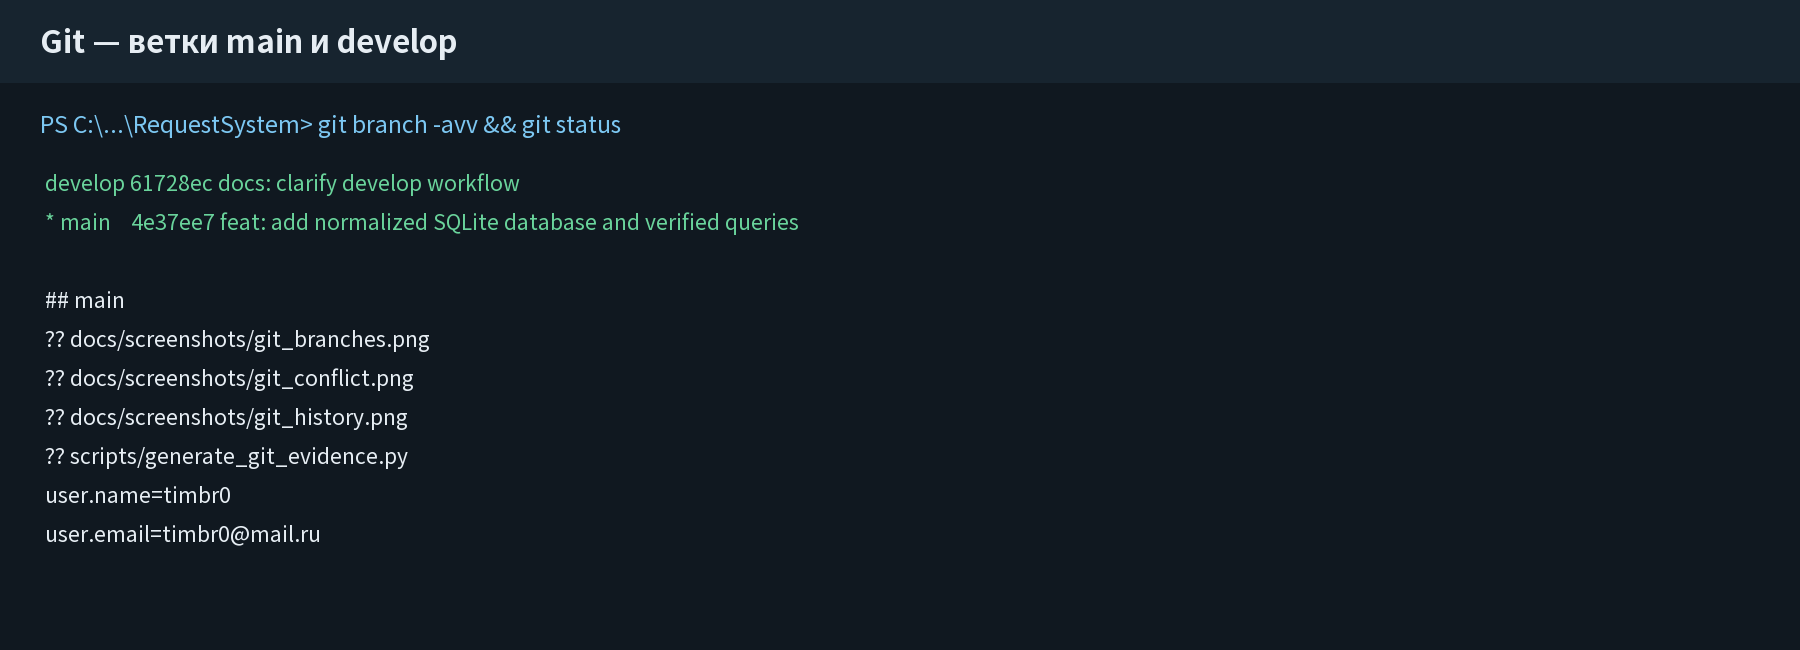
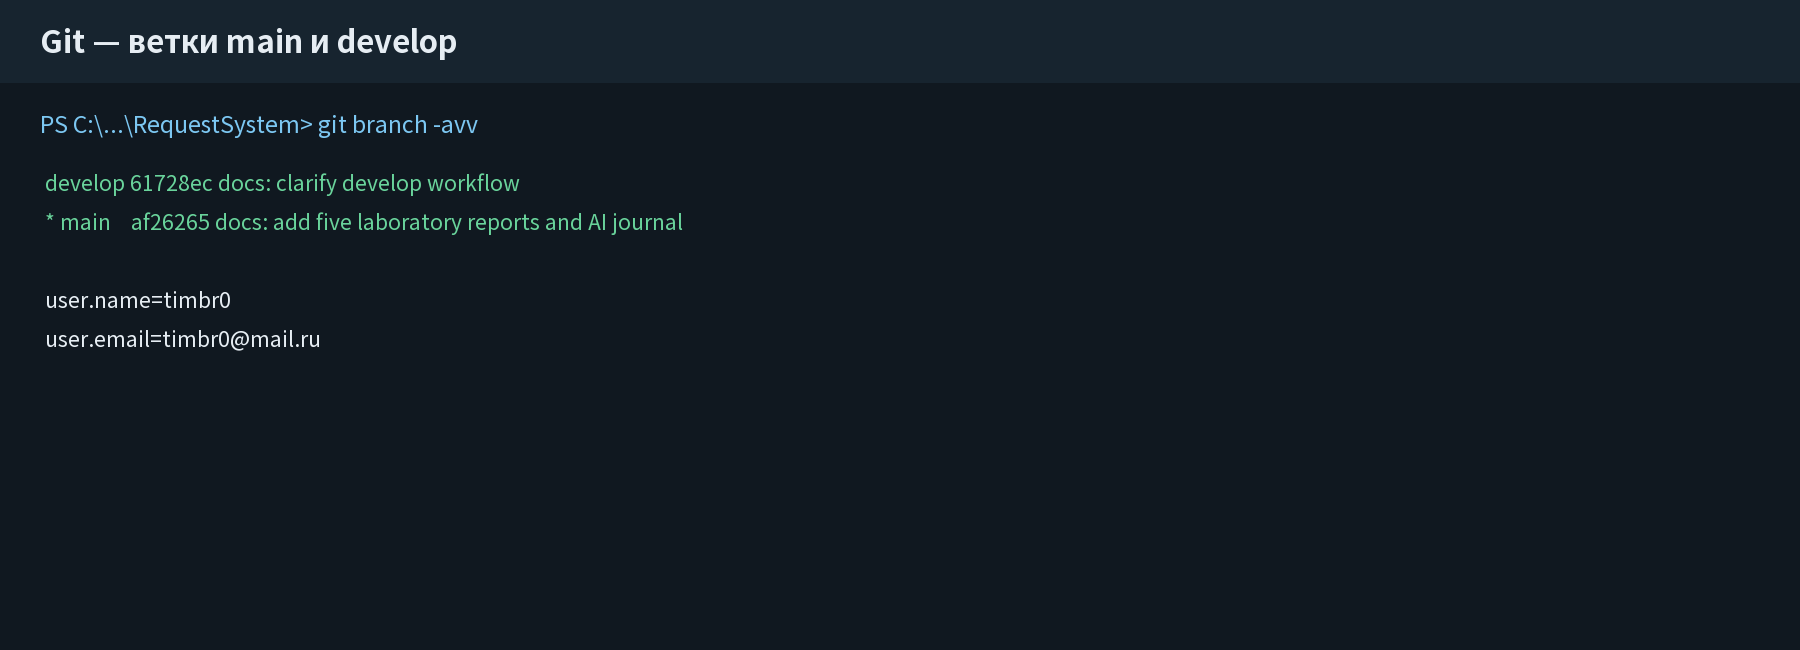
docs: refresh final Git evidence

diff --git a/scripts/generate_git_evidence.py b/scripts/generate_git_evidence.py
@@ -49,10 +49,8 @@ if __name__ == "__main__":
     print(render("git_history.png", "Git — история коммитов и слияние", "git log --graph --all --oneline --decorate -n 18", history).relative_to(ROOT))
 
     branches = run("git", "branch", "-avv").splitlines()
-    branches += [""]
-    branches += run("git", "status", "--short", "--branch").splitlines()
-    branches += ["user.name=" + run("git", "config", "--local", "user.name"), "user.email=" + run("git", "config", "--local", "user.email")]
-    print(render("git_branches.png", "Git — ветки main и develop", "git branch -avv && git status", branches).relative_to(ROOT))
+    branches += ["", "user.name=" + run("git", "config", "--local", "user.name"), "user.email=" + run("git", "config", "--local", "user.email")]
+    print(render("git_branches.png", "Git — ветки main и develop", "git branch -avv", branches).relative_to(ROOT))
 
     merge = run("git", "show", "--no-patch", "--format=commit %h%nparents %p%nauthor %an <%ae>%nsubject %s", "b928ac5").splitlines()
     merge += ["", "Конфликт: одна строка docs/git_workflow.md изменена в main и develop.", "HEAD: main — основная стабильная ветка, доступная преподавателю.", "develop: изменения попадают в main после проверки в develop.", "", "Ручное разрешение: объединены обе формулировки; маркеры удалены.", "Проверка: merge-коммит b928ac5 имеет двух родителей.", "Опасные команды reset --hard и push --force не применялись."]
